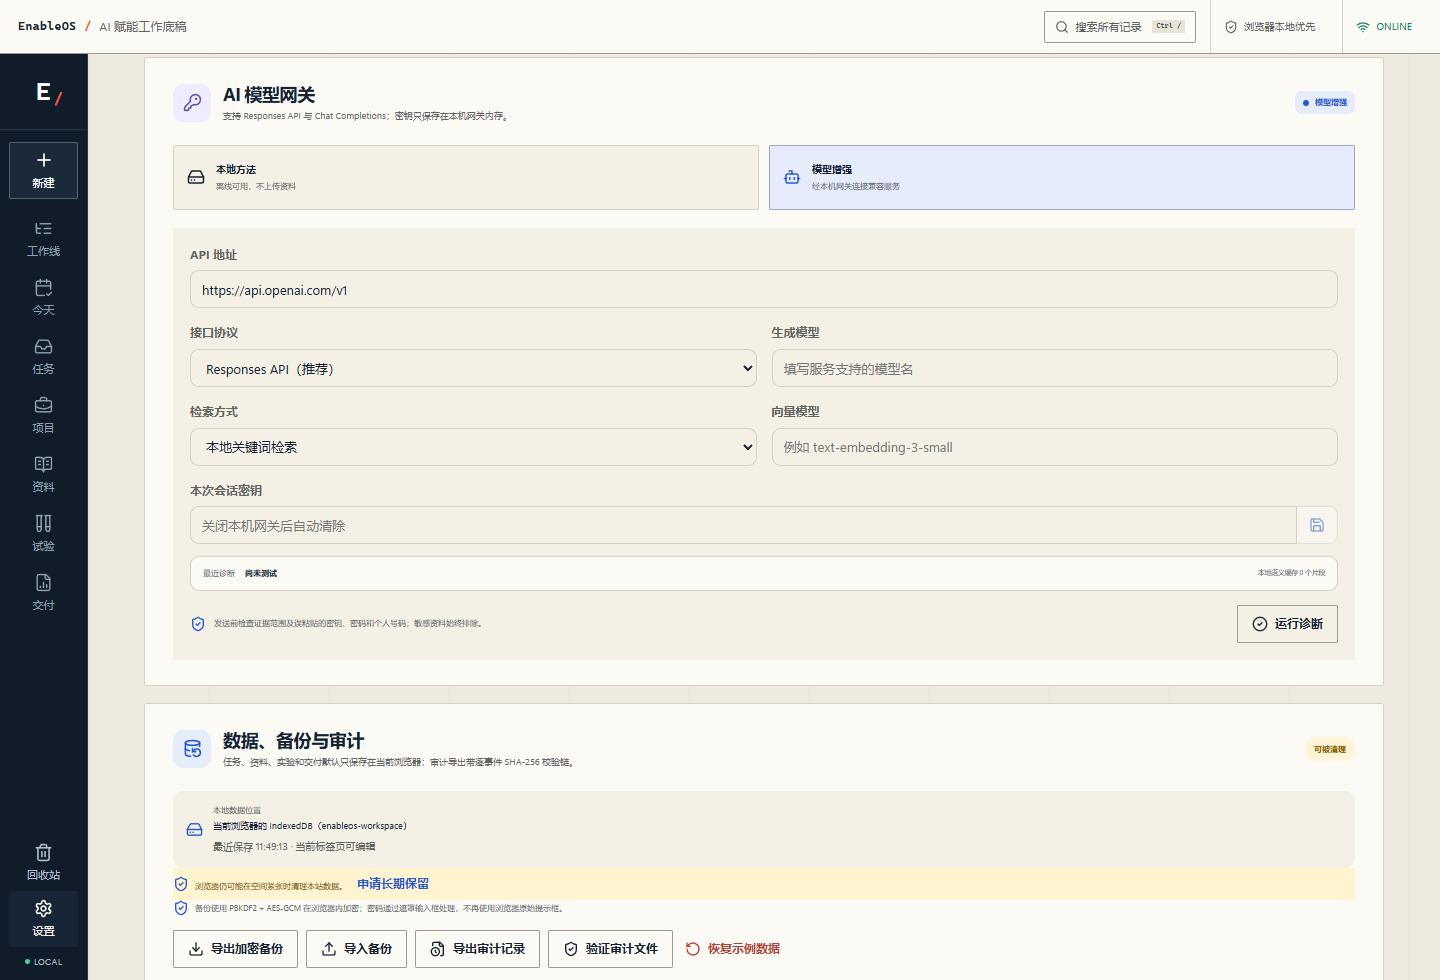
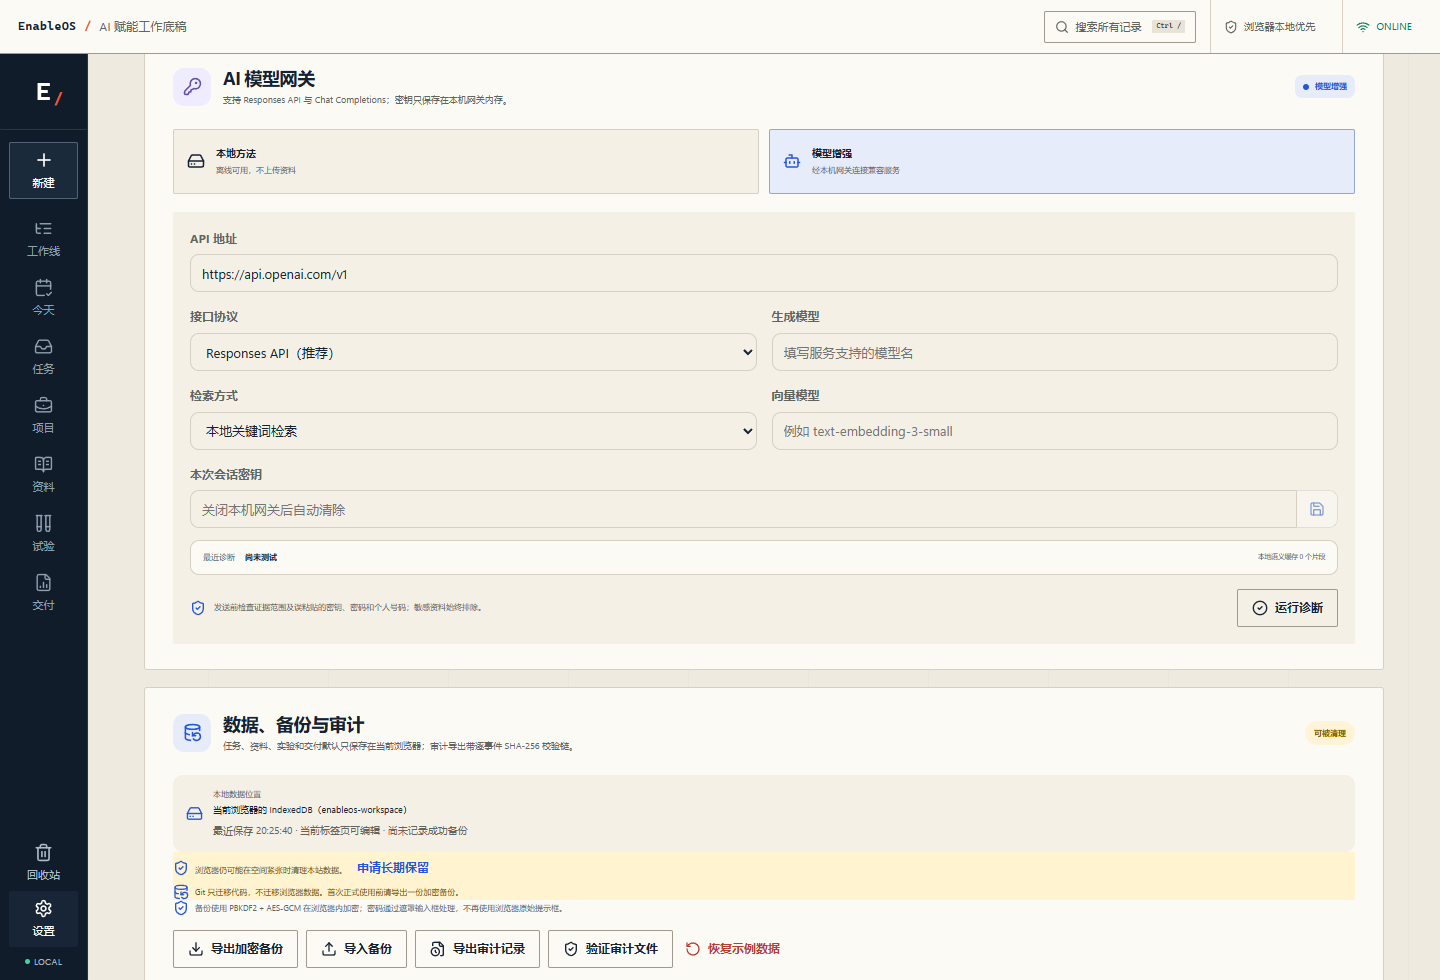
feat: finalize portability and backup safeguards

diff --git a/src/pages/SettingsPage.tsx b/src/pages/SettingsPage.tsx
@@ -30,6 +30,12 @@ export function SettingsPage() {
   }, [mutate]);
   if (!database) return null;
   const healthIssues = inspectWorkspace(database);
+  const lastBackupAt = database.settings.lastBackupAt ? new Date(database.settings.lastBackupAt) : null;
+  const backupAgeDays = lastBackupAt ? Math.floor((Date.now() - lastBackupAt.getTime()) / 86_400_000) : null;
+  const backupNeedsAttention = backupAgeDays === null || backupAgeDays >= 14;
+  const backupSummary = lastBackupAt
+    ? `最近备份 ${new Intl.DateTimeFormat('zh-CN', { dateStyle: 'medium', timeStyle: 'short' }).format(lastBackupAt)}`
+    : '尚未记录成功备份';
 
   const updateProfile = (patch: Partial<AppDatabase['profile']>) => mutate((current) => ({ ...current, profile: { ...current.profile, ...patch } }));
   const updateSettings = (patch: Partial<AppDatabase['settings']>) => mutate((current) => ({
@@ -102,8 +108,13 @@ export function SettingsPage() {
     setBackupBusy(true);
     try {
       if (backupMode === 'export') {
-        const result = await desktop.files.exportBackup(database, backupPassword);
-        if (!result.canceled) notify(`加密备份已保存到 ${result.path}`);
+        const exportedAt = new Date().toISOString();
+        const exportedDatabase = { ...database, settings: { ...database.settings, lastBackupAt: exportedAt } };
+        const result = await desktop.files.exportBackup(exportedDatabase, backupPassword);
+        if (!result.canceled) {
+          updateSettings({ lastBackupAt: exportedAt });
+          notify(`加密备份已保存到 ${result.path}`);
+        }
       } else {
         replaceDatabase(await desktop.files.decodeBackup(backupPayload, backupPassword));
         notify('加密备份已导入');
@@ -129,11 +140,11 @@ export function SettingsPage() {
 
       <section className="panel settings-section"><div className="settings-section-head"><div className="settings-icon purple"><KeyRound size={19} /></div><div><h2>AI 模型网关</h2><p>支持 Responses API 与 Chat Completions；密钥只保存在本机网关内存。</p></div><div className={`mode-status ${database.settings.aiMode}`}><span />{database.settings.aiMode === 'api' ? '模型增强' : '本地模式'}</div></div><div className="mode-selector"><button className={database.settings.aiMode === 'local' ? 'selected' : ''} onClick={() => updateSettings({ aiMode: 'local' })}><HardDrive size={18} /><div><strong>本地方法</strong><span>离线可用，不上传资料</span></div></button><button className={database.settings.aiMode === 'api' ? 'selected' : ''} onClick={() => updateSettings({ aiMode: 'api' })}><Bot size={18} /><div><strong>模型增强</strong><span>经本机网关连接兼容服务</span></div></button></div>{database.settings.aiMode === 'api' ? <div className="api-settings"><div className="form-grid"><label className="field span-2"><span>API 地址</span><input value={database.settings.apiEndpoint} onChange={(event) => updateSettings({ apiEndpoint: event.target.value })} placeholder="https://.../v1" /></label><label className="field"><span>接口协议</span><select value={database.settings.apiProtocol} onChange={(event) => updateSettings({ apiProtocol: event.target.value as AppDatabase['settings']['apiProtocol'] })}><option value="responses">Responses API（推荐）</option><option value="chat-completions">Chat Completions（兼容）</option></select></label><label className="field"><span>生成模型</span><input value={database.settings.apiModel} onChange={(event) => updateSettings({ apiModel: event.target.value })} placeholder="填写服务支持的模型名" /></label><label className="field"><span>检索方式</span><select value={database.settings.retrievalMode} onChange={(event) => updateSettings({ retrievalMode: event.target.value as AppDatabase['settings']['retrievalMode'] })}><option value="lexical">本地关键词检索</option><option value="hybrid">关键词 + 语义混合</option></select></label><label className="field"><span>向量模型</span><input value={database.settings.embeddingModel} onChange={(event) => updateSettings({ embeddingModel: event.target.value })} placeholder="例如 text-embedding-3-small" disabled={database.settings.retrievalMode !== 'hybrid'} /></label><label className="field span-2"><span>本次会话密钥</span><div className="inline-input"><input type="password" value={apiKey} onChange={(event) => setApiKey(event.target.value)} placeholder={database.settings.hasApiKey ? '网关已持有密钥，输入可替换' : '关闭本机网关后自动清除'} /><button aria-label="保存会话密钥" disabled={!apiKey.trim()} onClick={() => void saveApiKey()}><Save size={16} /></button></div></label></div><div className="gateway-diagnostic"><span>最近诊断</span><strong>{diagnostic}</strong><small>本地语义缓存 {semanticCount} 个片段</small></div><div className="api-actions"><div className="secure-note"><ShieldCheck size={16} />发送前检查证据范围及误粘贴的密钥、密码和个人号码；敏感资料始终排除。</div><div>{semanticCount ? <button className="danger-text-button" onClick={() => void resetSemanticIndex()}>清除语义缓存</button> : null}{database.settings.hasApiKey ? <button className="danger-text-button" onClick={() => void clearApiKey()}>清除会话密钥</button> : null}<button className="secondary-button" disabled={testing} onClick={() => void test()}>{testing ? <LoaderCircle className="spin" size={16} /> : <CheckCircle2 size={16} />}运行诊断</button></div></div></div> : null}</section>
 
-      <section className="panel settings-section"><div className="settings-section-head"><div className="settings-icon green"><DatabaseBackup size={19} /></div><div><h2>数据、备份与审计</h2><p>任务、资料、实验和交付默认只保存在当前浏览器；审计导出带逐事件 SHA-256 校验链。</p></div><div className={`readiness-badge ${storagePersistent ? 'ready' : ''}`}>{storagePersistent ? '长期保留' : storagePersistent === false ? '可被清理' : '检测中'}</div></div><div className="data-path"><HardDrive size={17} /><div><span>本地数据位置</span><code>{appInfo.dataPath || '正在读取…'}</code><small>{lastSavedAt ? `最近保存 ${new Intl.DateTimeFormat('zh-CN', { hour: '2-digit', minute: '2-digit', second: '2-digit' }).format(new Date(lastSavedAt))}` : '等待首次修改'} · {isReadOnly ? '当前标签页只读' : '当前标签页可编辑'}</small></div></div>{storagePersistent === false ? <div className="secure-note warning"><ShieldCheck size={16} /><span>浏览器仍可能在空间紧张时清理本站数据。<button className="text-button" onClick={() => void requestPersistentStorage()}>申请长期保留</button></span></div> : null}<div className="secure-note"><ShieldCheck size={16} />备份使用 PBKDF2 + AES-GCM 在浏览器内加密；密码通过遮罩输入框处理，不再使用浏览器原始提示框。</div><div className="data-actions"><button className="secondary-button" onClick={exportBackup}><Download size={16} />导出加密备份</button><button className="secondary-button" onClick={() => void importBackup()}><Upload size={16} />导入备份</button><button className="secondary-button" onClick={() => void exportAudit()}><FileClock size={16} />导出审计记录</button><button className="secondary-button" onClick={() => void verifyAudit()}><ShieldCheck size={16} />验证审计文件</button><button className="danger-text-button" onClick={() => void resetDemo()}><RotateCcw size={16} />恢复示例数据</button></div></section>
+      <section className="panel settings-section"><div className="settings-section-head"><div className="settings-icon green"><DatabaseBackup size={19} /></div><div><h2>数据、备份与审计</h2><p>任务、资料、实验和交付默认只保存在当前浏览器；审计导出带逐事件 SHA-256 校验链。</p></div><div className={`readiness-badge ${storagePersistent ? 'ready' : ''}`}>{storagePersistent ? '长期保留' : storagePersistent === false ? '可被清理' : '检测中'}</div></div><div className="data-path"><HardDrive size={17} /><div><span>本地数据位置</span><code>{appInfo.dataPath || '正在读取…'}</code><small>{lastSavedAt ? `最近保存 ${new Intl.DateTimeFormat('zh-CN', { hour: '2-digit', minute: '2-digit', second: '2-digit' }).format(new Date(lastSavedAt))}` : '等待首次修改'} · {isReadOnly ? '当前标签页只读' : '当前标签页可编辑'} · {backupSummary}</small></div></div>{storagePersistent === false ? <div className="secure-note warning"><ShieldCheck size={16} /><span>浏览器仍可能在空间紧张时清理本站数据。<button className="text-button" onClick={() => void requestPersistentStorage()}>申请长期保留</button></span></div> : null}{backupNeedsAttention ? <div className="secure-note warning"><DatabaseBackup size={16} /><span>{backupAgeDays === null ? 'Git 只迁移代码，不迁移浏览器数据。首次正式使用前请导出一份加密备份。' : `距离上次备份已 ${backupAgeDays} 天，建议在重要交付或换电脑前重新导出。`}</span></div> : null}<div className="secure-note"><ShieldCheck size={16} />备份使用 PBKDF2 + AES-GCM 在浏览器内加密；密码通过遮罩输入框处理，不再使用浏览器原始提示框。</div><div className="data-actions"><button className="secondary-button" onClick={exportBackup}><Download size={16} />导出加密备份</button><button className="secondary-button" onClick={() => void importBackup()}><Upload size={16} />导入备份</button><button className="secondary-button" onClick={() => void exportAudit()}><FileClock size={16} />导出审计记录</button><button className="secondary-button" onClick={() => void verifyAudit()}><ShieldCheck size={16} />验证审计文件</button><button className="danger-text-button" onClick={() => void resetDemo()}><RotateCcw size={16} />恢复示例数据</button></div></section>
 
       <section className="panel settings-section"><div className="settings-section-head"><div className="settings-icon blue"><CircleGauge size={19} /></div><div><h2>工作区健康检查</h2><p>检查失效关联、重复标识、异常评分、日期范围和配置缺口；只自动修复不会丢数据的问题。</p></div><div className={`readiness-badge ${healthIssues.length === 0 ? 'ready' : ''}`}>{healthIssues.length ? `${healthIssues.length} 项` : '健康'}</div></div>{healthIssues.length ? <div className="health-list">{healthIssues.map((issue) => <article className={issue.severity} key={issue.code}><div><strong>{issue.title}</strong><span>{issue.count} 项 · {issue.repairable ? '可安全修复' : '需人工确认'}</span></div><p>{issue.detail}</p></article>)}</div> : <div className="health-empty"><ShieldCheck size={18} /><span>未发现数据一致性或关键配置问题。</span></div>}{healthIssues.some((issue) => issue.repairable) ? <div className="data-actions"><button className="secondary-button" onClick={repairHealthIssues}><Wrench size={16} />修复安全项</button></div> : null}</section>
 
-      <section className="panel settings-section compact-settings"><div className="settings-section-head"><div className="settings-icon coral"><Save size={19} /></div><div><h2>外观与体验</h2><p>设置会自动保存。</p></div></div><div className="preference-row"><span>主题</span><div className="segmented-control">{([['light', '浅色'], ['dark', '深色'], ['system', '跟随系统']] as const).map(([key, label]) => <button className={database.settings.theme === key ? 'active' : ''} key={key} onClick={() => updateSettings({ theme: key as ThemeMode })}>{label}</button>)}</div></div><div className="preference-row"><span>紧凑显示</span><button className={`toggle ${database.settings.compactMode ? 'on' : ''}`} onClick={() => updateSettings({ compactMode: !database.settings.compactMode })}><i /></button></div><div className="version-note">EnableOS {appInfo.version || '2.2.0'} · {appInfo.platform || 'Web'}</div></section>
+      <section className="panel settings-section compact-settings"><div className="settings-section-head"><div className="settings-icon coral"><Save size={19} /></div><div><h2>外观与体验</h2><p>设置会自动保存。</p></div></div><div className="preference-row"><span>主题</span><div className="segmented-control">{([['light', '浅色'], ['dark', '深色'], ['system', '跟随系统']] as const).map(([key, label]) => <button className={database.settings.theme === key ? 'active' : ''} key={key} onClick={() => updateSettings({ theme: key as ThemeMode })}>{label}</button>)}</div></div><div className="preference-row"><span>紧凑显示</span><button className={`toggle ${database.settings.compactMode ? 'on' : ''}`} onClick={() => updateSettings({ compactMode: !database.settings.compactMode })}><i /></button></div><div className="version-note">EnableOS {appInfo.version || '3.3.0'} · {appInfo.platform || 'Web'}</div></section>
     </div>
     <Modal open={Boolean(backupMode)} onClose={closeBackupDialog} title={backupMode === 'export' ? '导出加密备份' : '解锁加密备份'} description={backupMode === 'export' ? '密码只在当前操作中使用；忘记密码将无法恢复。' : '请输入创建此备份时使用的密码。'}>
       <div className="backup-password-dialog">

diff --git a/src/lib/browser-db.ts b/src/lib/browser-db.ts
@@ -105,6 +105,7 @@ export function createDemoDatabase(): AppDatabase {
       theme: 'light', aiMode: 'local', apiProtocol: 'responses', apiEndpoint: 'https://api.openai.com/v1', apiModel: '',
       embeddingModel: '', retrievalMode: 'lexical', hasApiKey: false, compactMode: false,
       externalAiPolicy: 'unknown', externalEvidenceScope: 'public-only', approvedTools: '', dataHandlingNotes: '', reportCadence: '', mentorExpectation: '', policyConfirmedAt: '',
+      lastBackupAt: '',
     },
     projects: [{
       id: projectId,
@@ -140,10 +141,12 @@ export function normalizeDatabase(value: Partial<AppDatabase> | null | undefined
   const fallback = createDemoDatabase();
   const projects = Array.isArray(value?.projects) ? value.projects : [];
   const defaultProjectId = projects.length === 1 ? projects[0].id : null;
+  const rawSettings = { ...fallback.settings, ...(value?.settings ?? {}) };
+  const lastBackupAt = String(rawSettings.lastBackupAt || '');
   return {
     version: 5,
     profile: { ...fallback.profile, ...(value?.profile ?? {}) },
-    settings: { ...fallback.settings, ...(value?.settings ?? {}) },
+    settings: { ...rawSettings, lastBackupAt: lastBackupAt && !Number.isNaN(Date.parse(lastBackupAt)) ? lastBackupAt : '' },
     projects: projects.map((item) => ({ ...item, deletedAt: item.deletedAt ?? '' })),
     tasks: (Array.isArray(value?.tasks) ? value.tasks : []).map((item) => {
       const clarificationQuestions = Array.isArray(item.clarificationQuestions) ? item.clarificationQuestions : [];

diff --git a/src/lib/browser-db.test.ts b/src/lib/browser-db.test.ts
@@ -54,6 +54,8 @@ describe('normalized browser database', () => {
     expect(normalized.knowledge[0].taskId).toBeNull();
     expect(normalized.tasks[0].deletedAt).toBe('');
     expect(normalized.knowledge[0]).toMatchObject({ sourceFingerprint: '', sourceSize: 0, sourceModifiedAt: '', sourceMime: '', deletedAt: '' });
+    expect(normalized.settings.lastBackupAt).toBe('');
+    expect(normalizeDatabase({ settings: { lastBackupAt: 'not-a-date' } as never }).settings.lastBackupAt).toBe('');
     expect(normalized.revisions).toEqual([]);
     expect(normalized.version).toBe(5);
   });

diff --git a/src/lib/bridge.ts b/src/lib/bridge.ts
@@ -160,5 +160,5 @@ export const desktop: DesktopBridge = {
     minimize: async () => undefined, toggleMaximize: async () => false, close: async () => undefined,
     isMaximized: async () => false, onQuickCapture: () => () => undefined,
   },
-  app: { getInfo: async () => ({ version: '3.2.0', platform: 'Web · PWA', dataPath: '当前浏览器的 IndexedDB（enableos-workspace）' }) },
+  app: { getInfo: async () => ({ version: '3.3.0', platform: 'Web · PWA', dataPath: '当前浏览器的 IndexedDB（enableos-workspace）' }) },
 };

diff --git a/shared/models.ts b/shared/models.ts
@@ -38,6 +38,7 @@ export interface AppSettings {
   reportCadence: string;
   mentorExpectation: string;
   policyConfirmedAt: string;
+  lastBackupAt: string;
 }
 
 export interface Project {

diff --git a/docs/WEB-VALIDATION.md b/docs/WEB-VALIDATION.md
@@ -5,6 +5,7 @@
 - TypeScript 严格类型检查通过。
 - 36 个单元、契约和集成测试通过：本地时区日期与进度、本地任务分析、旧工作线与恢复字段迁移、任务日期分组与优先排序、状态/日期修改快照及旧版本恢复、相关资料最小外发、证据范围与敏感信息过滤、带 `[K#]` 引用汇报、分段检索、两阶段语义召回与缓存、引用校验、Responses/Chat Completions/Embeddings 请求契约、真实本机网关代理、密钥端点绑定、DOCX 解压预检、内容指纹、审计导出/验证、项目与工作线失效关联修复、加密备份和 IndexedDB 持久化。
 - Vite 生产构建通过。
+- `pnpm run health` 通过：Node 版本、依赖、生产构建、运行目录和 4173 端口均满足启动条件。
 - PWA manifest、Service Worker 和离线预缓存生成成功。
 - Edge 无头浏览器烟雾测试通过：
   - 桌面工作线首页可见，原始要求、澄清、行动、证据与交付节点完整呈现。
@@ -37,6 +38,8 @@
 - 伪造跨站 API 请求、编码目录越界请求、错误关闭凭证均实测返回 403。
 - `停止 EnableOS.cmd` 使用随机本机凭证请求服务优雅关闭；实测端口释放后可重新启动。
 - 服务只绑定 `127.0.0.1`，API 密钥只在网关进程内存或环境变量中。
+- 新电脑首次安装脚本会优先使用 pnpm，其次使用 Corepack 或临时 npx，不进行全局包管理器安装；GitHub Actions 会在每次推送后从锁文件重新安装并验证。
+- 设置页记录成功加密备份时间，并明确提示 Git 只迁移代码、浏览器 IndexedDB 数据必须通过备份迁移。
 
 ## 视觉结果
 
